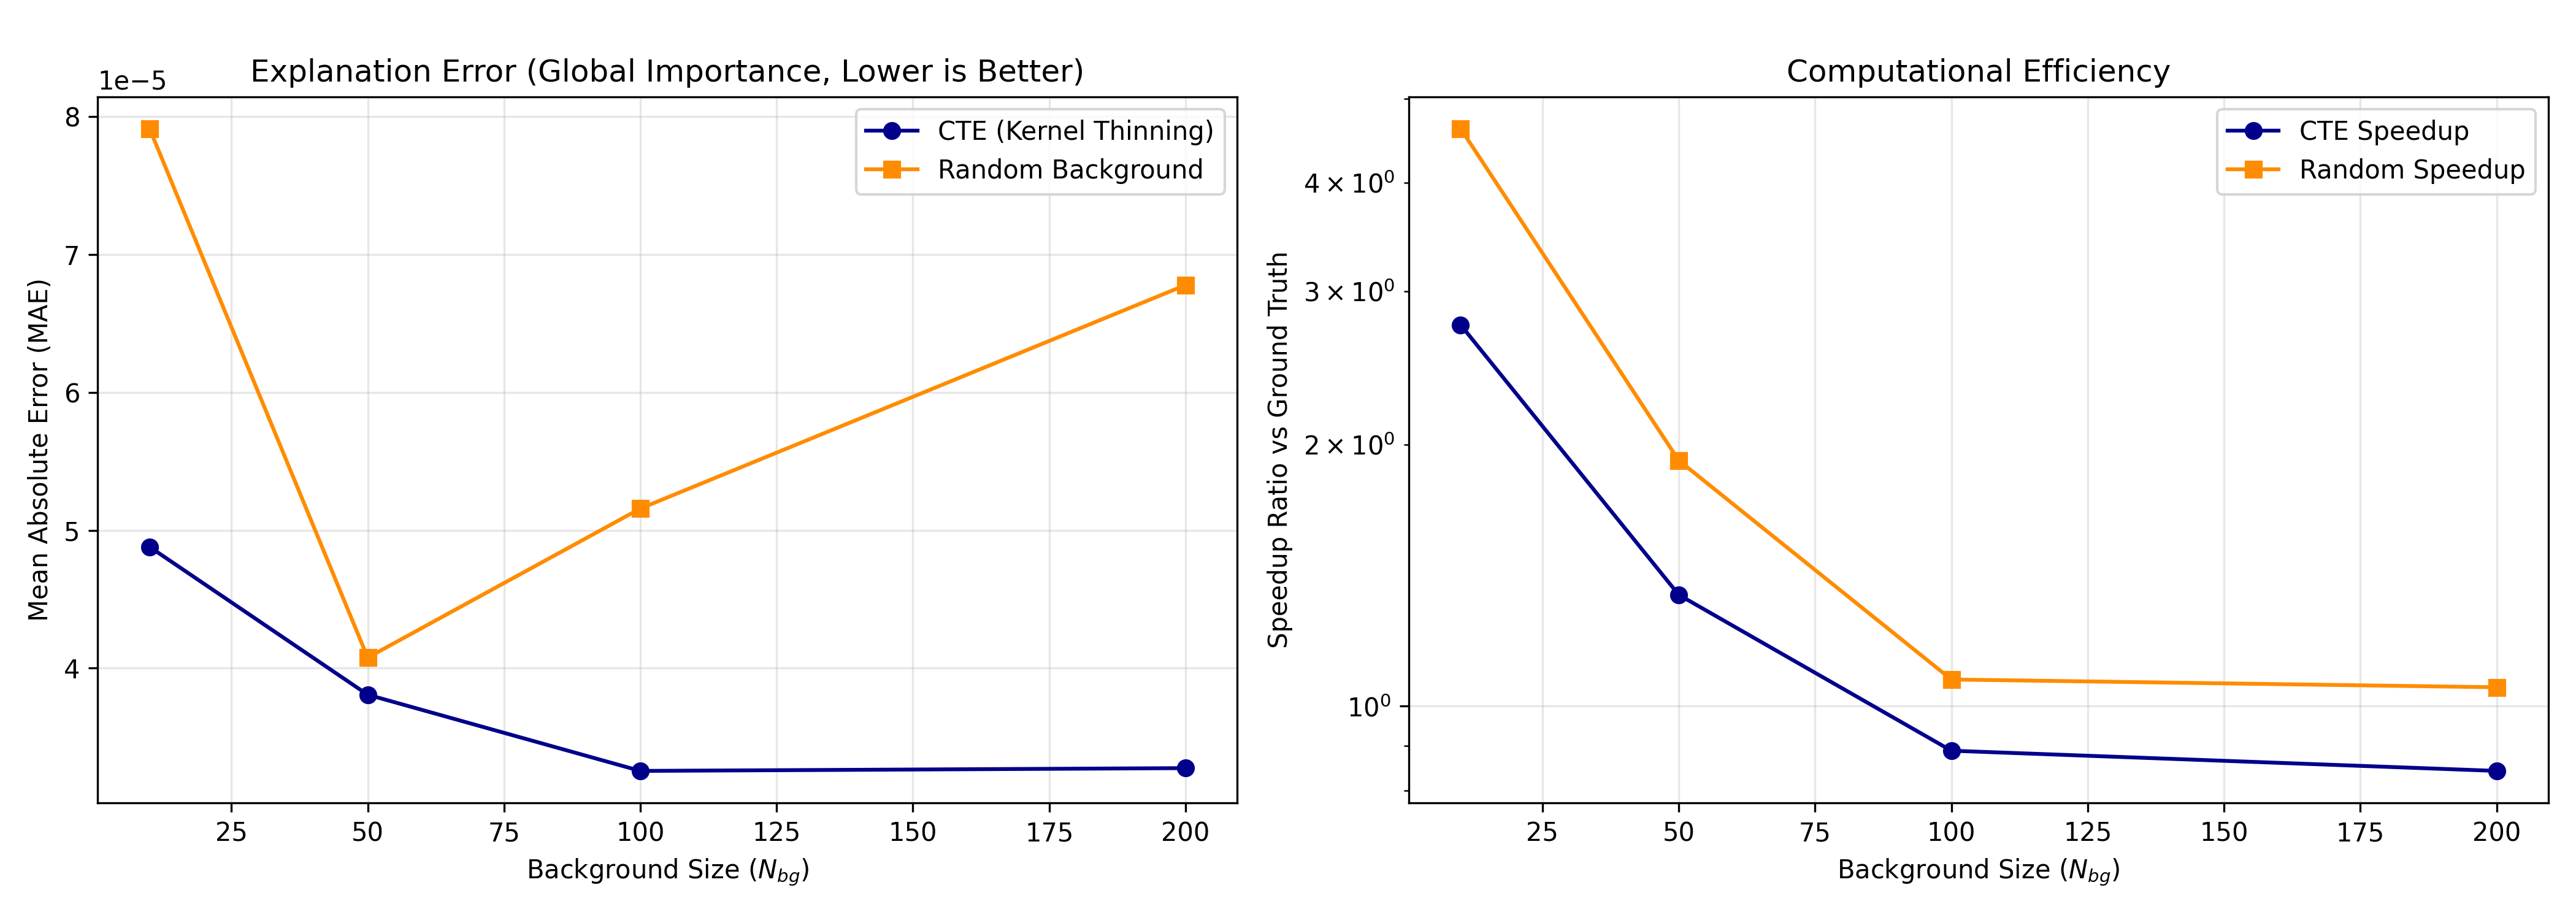
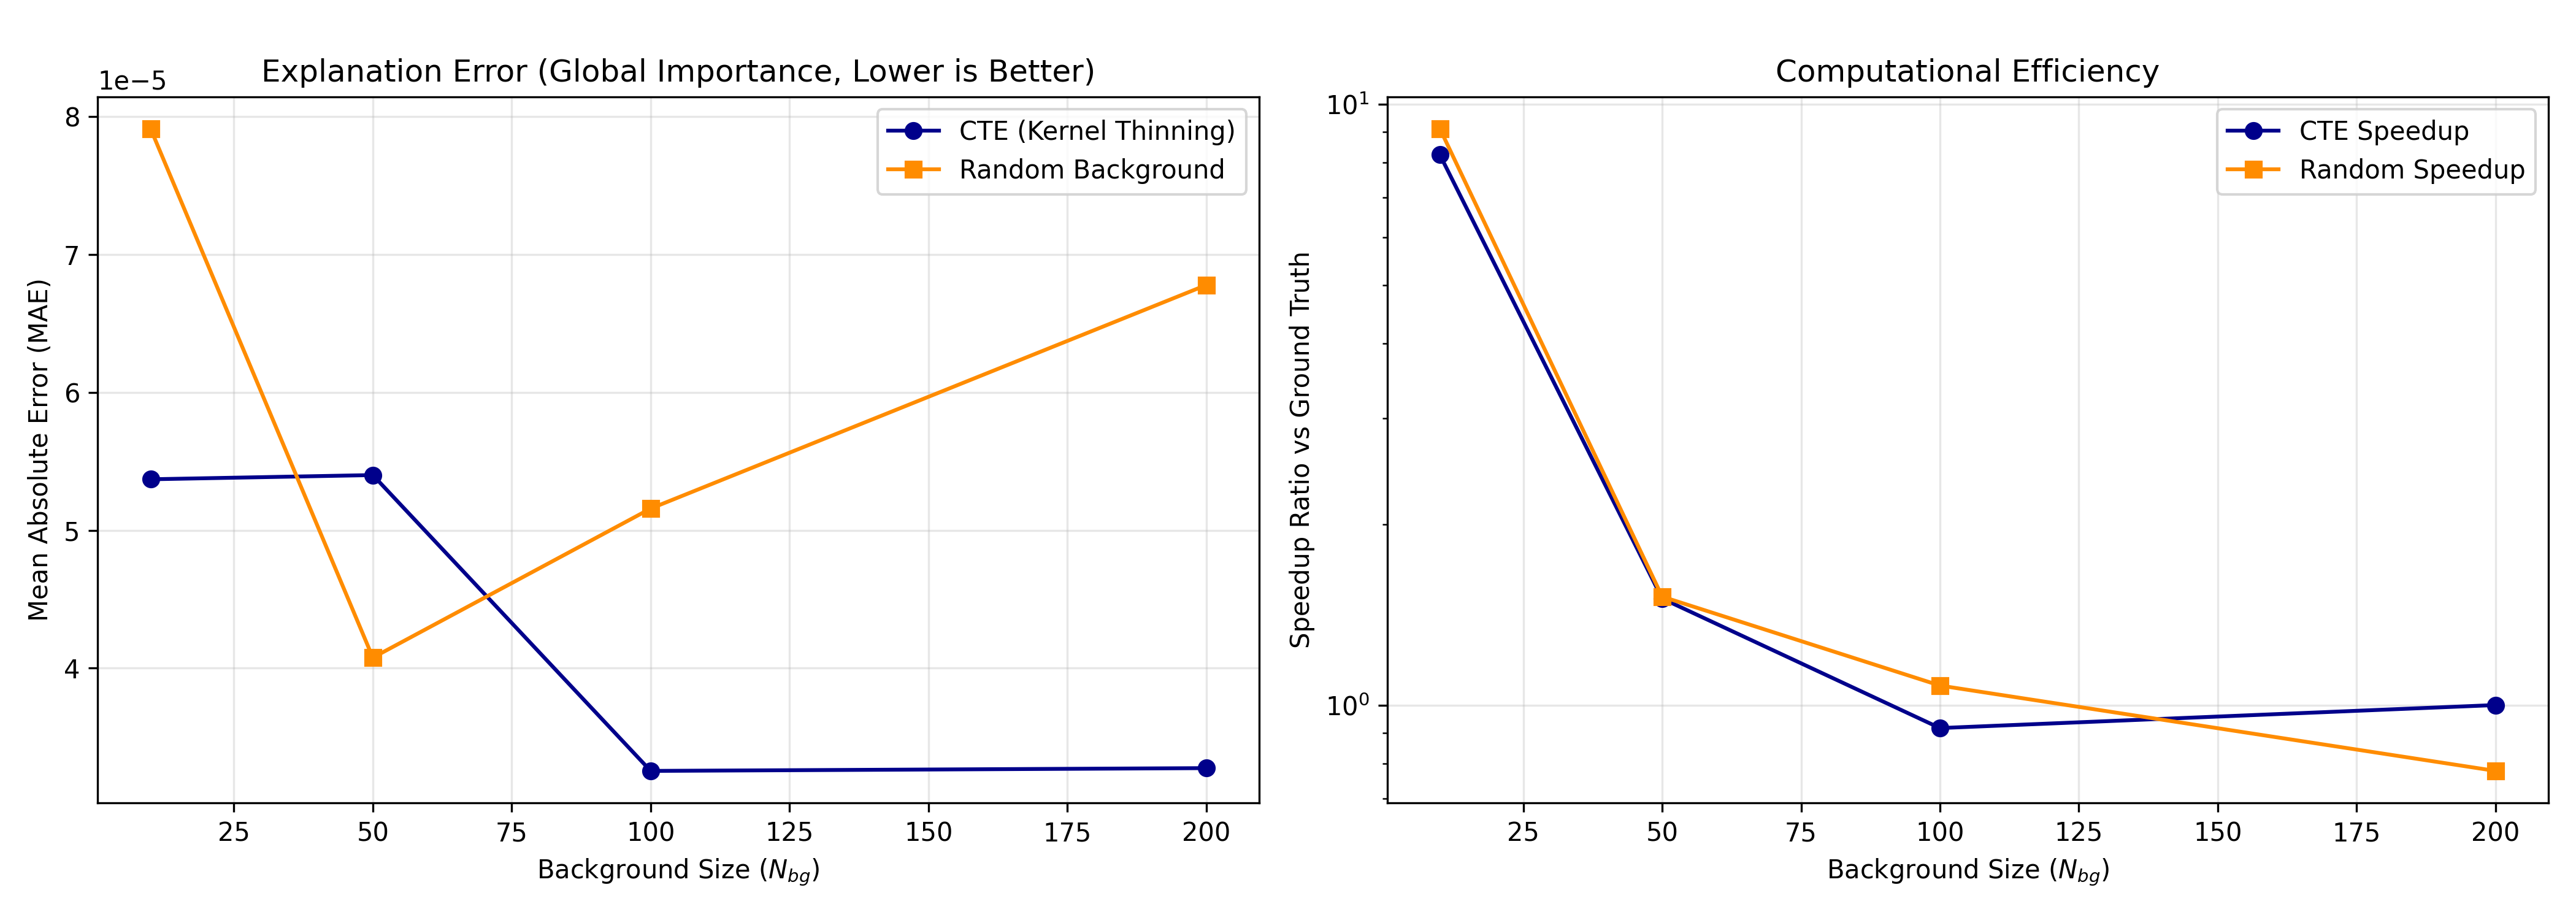
claude + brake evean

diff --git a/experiments/rq4_breakeven.py b/experiments/rq4_breakeven.py
@@ -1,0 +1,127 @@
+"""
+RQ4: Break-even analysis for CTE vs Random using KernelExplainer.
+
+KernelExplainer is the "black-box" scenario CTE was designed for —
+it works with any model and the background set directly determines
+approximation quality. TreeExplainer (used in RQ1-3) is XGBoost-specific
+and too fast for meaningful timing comparison.
+
+Question: given that building a CTE coreset is expensive (one-time cost),
+how many explanation batches do you need to run before CTE pays off
+compared to always using random sampling?
+
+break-even: n* = build_time_cte / (shap_time_rand - shap_time_cte)
+"""
+
+import time
+import json
+import pandas as pd
+import shap
+import joblib
+from pathlib import Path
+import warnings
+
+import sys
+sys.path.append(str(Path(__file__).parent.parent))
+
+from data.data_loader import load_dataset
+from cte_compression.kernel_thinning import build_iid_background
+
+
+def run_rq4():
+    print("Loading dataset and cached model...")
+    try:
+        data = load_dataset(data_dir=Path(__file__).parent.parent / 'data' / 'ecom-offers')
+    except Exception as e:
+        warnings.warn(f"Failed to load TabReD dataset, falling back to synthetic. Error: {e}")
+        data = load_dataset()
+
+    cache_dir = Path(__file__).parent.parent / 'data' / 'cache'
+    if not (cache_dir / 'xgb_model.pkl').exists():
+        raise FileNotFoundError("Cache not found! Run `python experiments/prepare_cache.py` first.")
+
+    model = joblib.load(cache_dir / 'xgb_model.pkl')
+    X_train = data['X_train']
+
+    def pred_fn(X):
+        return model.predict_proba(X)[:, 1]
+
+    # Fixed explain set — 50 samples per batch (keeps timing reasonable)
+    n_explain = 50
+    X_explain = data['X_val'].sample(n_explain, random_state=42).reset_index(drop=True)
+
+    bg_sizes = [10, 50, 100, 200]
+    results = []
+
+    for size in bg_sizes:
+        print(f"\n--- Background size: {size} ---")
+
+        # CTE — load coreset from cache, record true KT build time separately
+        bg_cte_path = cache_dir / f'bg_cte_{size}.parquet'
+        if not bg_cte_path.exists():
+            raise FileNotFoundError(
+                f"{bg_cte_path} not found. Run prepare_cache.py first."
+            )
+        bg_cte = pd.read_parquet(bg_cte_path)
+
+        print("  Timing KernelExplainer with CTE background...")
+        explainer_cte = shap.KernelExplainer(pred_fn, bg_cte)
+        t0 = time.time()
+        explainer_cte.shap_values(X_explain)
+        t_cte_shap = time.time() - t0
+
+        # Random — build fresh each time (no build cost)
+        bg_rand = build_iid_background(X_train, size=size)
+
+        print("  Timing KernelExplainer with Random background...")
+        explainer_rand = shap.KernelExplainer(pred_fn, bg_rand)
+        t0 = time.time()
+        explainer_rand.shap_values(X_explain)
+        t_rand_shap = time.time() - t0
+
+        print(f"  CTE shap/batch: {t_cte_shap:.2f}s  |  Rand shap/batch: {t_rand_shap:.2f}s")
+
+        results.append({
+            "size":        size,
+            "t_cte_shap":  t_cte_shap,
+            "t_rand_shap": t_rand_shap,
+        })
+
+    # Load KT build times recorded during prepare_cache.py
+    build_times_path = cache_dir / 'kt_build_times.json'
+    if not build_times_path.exists():
+        raise FileNotFoundError(
+            "kt_build_times.json not found. Re-run prepare_cache.py to regenerate it."
+        )
+    with open(build_times_path) as f:
+        build_times = json.load(f)
+
+    print("\n=== Break-even summary ===")
+    print(f"{'bg':>5} {'build(s)':>10} {'cte_shap':>10} {'rand_shap':>10} {'delta':>8} {'n* batches':>12} {'n* samples':>12}")
+    for r in results:
+        s = r['size']
+        bt = build_times.get(str(s), 0)
+        delta = r['t_rand_shap'] - r['t_cte_shap']
+        if delta > 0:
+            n_star = bt / delta
+        else:
+            n_star = float('inf')
+        r['build_time']  = bt
+        r['delta']       = delta
+        r['n_star_batches'] = n_star if n_star != float('inf') else None
+        r['n_star_samples'] = n_star * n_explain if n_star != float('inf') else None
+        print(f"{s:>5} {bt:>10.1f} {r['t_cte_shap']:>10.2f} {r['t_rand_shap']:>10.2f} "
+              f"{delta:>8.2f} {n_star:>12.0f} {n_star*n_explain:>12.0f}")
+
+    out_dir = Path(__file__).parent.parent / 'results'
+    out_dir.mkdir(exist_ok=True)
+    with open(out_dir / 'rq4_breakeven.json', 'w') as f:
+        json.dump({
+            "n_explain_per_batch": n_explain,
+            "experiments": results,
+        }, f, indent=2)
+    print("\nResults saved to results/rq4_breakeven.json")
+
+
+if __name__ == "__main__":
+    run_rq4()

diff --git a/evaluation/visualize.py b/evaluation/visualize.py
@@ -110,9 +110,74 @@ def plot_rq3(results_file):
     plt.savefig(Path(results_file).parent / 'rq3_train_val.png', dpi=300)
     plt.close()
 
+def plot_breakeven(results_file):
+    """
+    Break-even analysis using KernelExplainer timings from rq4_breakeven.json.
+
+    Shows cumulative time SAVED by using CTE instead of Random:
+        savings(n) = n * delta - build_time
+
+    Starts negative (you're in debt from building the coreset),
+    crosses zero at n* (break-even), then goes positive (CTE pays off).
+    This makes the break-even point visually obvious.
+    """
+    with open(results_file) as f:
+        data = json.load(f)
+
+    experiments = data['experiments']
+    n_explain   = data['n_explain_per_batch']
+    colors = ['#1f77b4', '#ff7f0e', '#2ca02c', '#d62728']
+
+    # x-axis: go to 2× the largest n* so all break-even points are visible
+    max_n_star = max(
+        exp['build_time'] / (exp['t_rand_shap'] - exp['t_cte_shap'])
+        for exp in experiments
+        if (exp['t_rand_shap'] - exp['t_cte_shap']) > 0
+    )
+    max_batches = int(max_n_star * 2)
+
+    fig, ax = plt.subplots(figsize=(10, 6))
+
+    for exp, color in zip(experiments, colors):
+        size       = exp['size']
+        build_time = exp['build_time']
+        delta      = exp['t_rand_shap'] - exp['t_cte_shap']
+
+        if delta <= 0:
+            continue
+
+        n_batches = np.arange(0, max_batches + 1)
+        savings   = n_batches * delta - build_time  # negative → zero → positive
+
+        n_star = build_time / delta
+
+        ax.plot(n_batches, savings, color=color, linewidth=2,
+                label=f'bg={size}  (n*={n_star:.0f} batches = {n_star*n_explain:.0f} samples)')
+        ax.axvline(n_star, color=color, linestyle=':', alpha=0.5)
+
+    ax.axhline(0, color='black', linewidth=1.2, linestyle='--', label='Break-even (savings = 0)')
+    ax.fill_between(np.arange(0, max_batches + 1), 0,
+                    alpha=0.04, color='green')
+
+    ax.set_xlabel(f'Number of explanation batches ({n_explain} samples/batch)')
+    ax.set_ylabel('Cumulative time saved by CTE vs Random (s)')
+    ax.set_title('CTE Break-even Analysis (KernelExplainer)\n'
+                 'Below zero = CTE still in debt from build cost  |  Above zero = CTE pays off')
+    ax.legend(fontsize=8)
+    ax.grid(True, alpha=0.3)
+
+    plt.tight_layout()
+    out_path = Path(results_file).parent / 'rq4_breakeven.png'
+    plt.savefig(out_path, dpi=300)
+    plt.close()
+    print(f"Break-even plot saved to {out_path}")
+
+
 if __name__ == "__main__":
     results_dir = Path(__file__).parent.parent / 'results'
     if (results_dir / 'rq1.json').exists(): plot_rq1(results_dir / 'rq1.json')
     if (results_dir / 'rq2.json').exists(): plot_rq2(results_dir / 'rq2.json')
     if (results_dir / 'rq3.json').exists(): plot_rq3(results_dir / 'rq3.json')
+    if (results_dir / 'rq4_breakeven.json').exists():
+        plot_breakeven(results_dir / 'rq4_breakeven.json')
     print("Plots generated in results directory.")